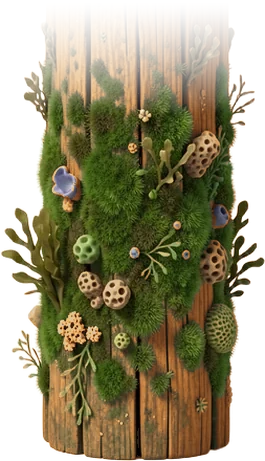
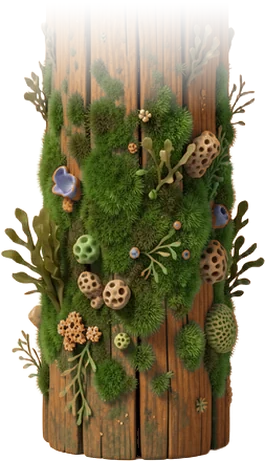
Pier piles graded to the deck posts' tone: no light band where a post's foot meets its pile

diff --git a/scripts/fx/pier_grade.py b/scripts/fx/pier_grade.py
@@ -19,7 +19,7 @@ def ramp(l):
     f = (t - i)[..., None]
     return RAMP[i] * (1 - f) + RAMP[i + 1] * f
 
-def grade(name, round_across=False):
+def grade(name, round_across=False, gain=1.0):
     a = np.asarray(Image.open(os.path.join(SRC, name + '.webp')).convert('RGBA')).astype(np.float32) / 255
     rgb = a[..., :3]
     mx, mn = rgb.max(-1), rgb.min(-1)
@@ -32,11 +32,14 @@ def grade(name, round_across=False):
     if round_across:                       # a post: light from the upper left, round across its width
         u = np.linspace(-1, 1, a.shape[1])[None, :]
         l = np.clip(l * (0.72 + 0.4 * np.cos(u * 1.35 + 0.35)), 0, 1)
-    out = rgb * (1 - wood[..., None]) + ramp(l) * wood[..., None]
+    out = rgb * (1 - wood[..., None]) + ramp(l * gain) * wood[..., None]
     Image.fromarray((np.dstack([np.clip(out, 0, 1), a[..., 3]]) * 255 + 0.5).astype(np.uint8), 'RGBA').save(os.path.join(OUT, name + '.webp'), quality=90, method=6)
     print(name, a.shape[1::-1])
 
 grade('pier_deck')
-grade('pier_pile_mid', round_across=True)
-grade('pier_band', round_across=True)
-grade('pier_foot', round_across=True)
+# The piles stand under the deck's own posts: graded down to the posts' tone, so no band shows
+# where a post's faded foot meets the pile (measured on screen: piles were ~1.33x brighter).
+PILE = 0.76
+grade('pier_pile_mid', round_across=True, gain=PILE)
+grade('pier_band', round_across=True, gain=PILE)
+grade('pier_foot', round_across=True, gain=PILE)
